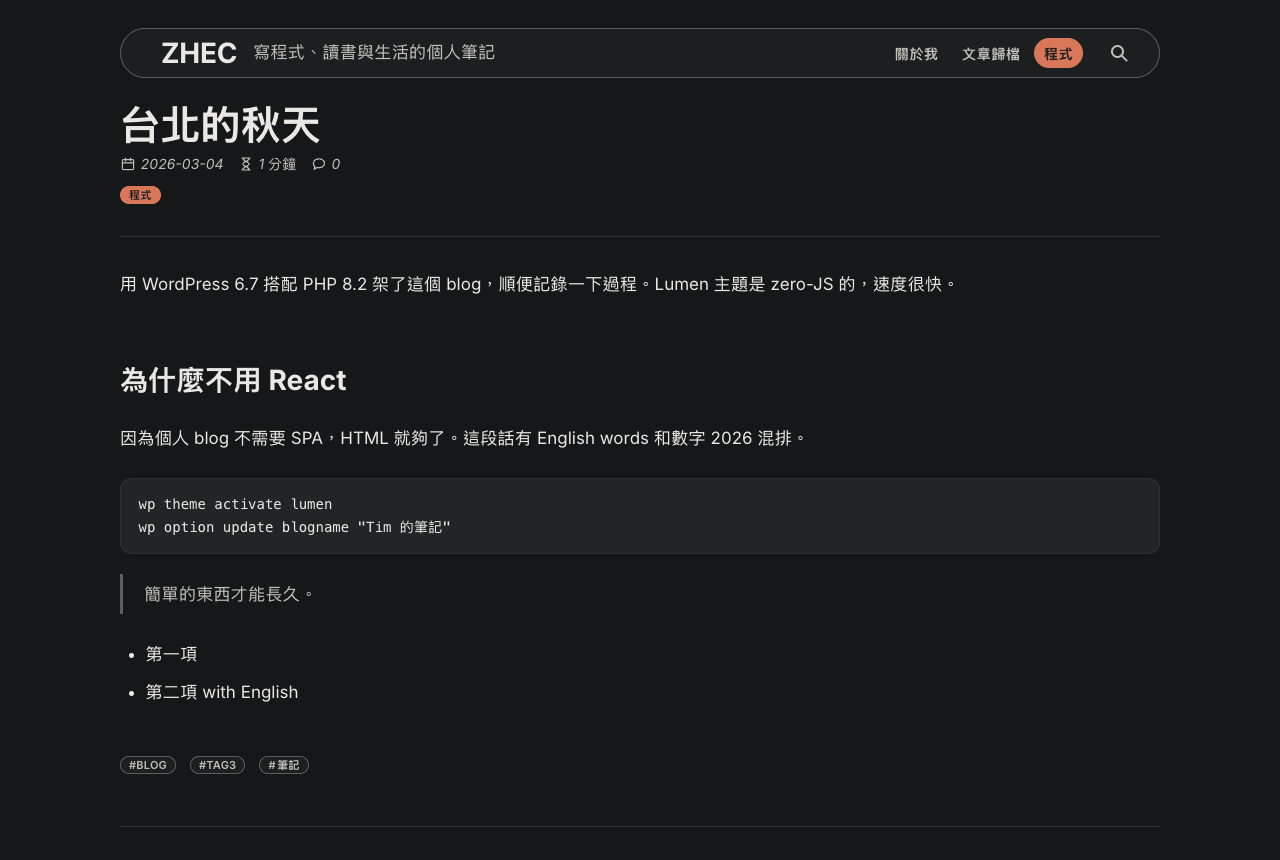
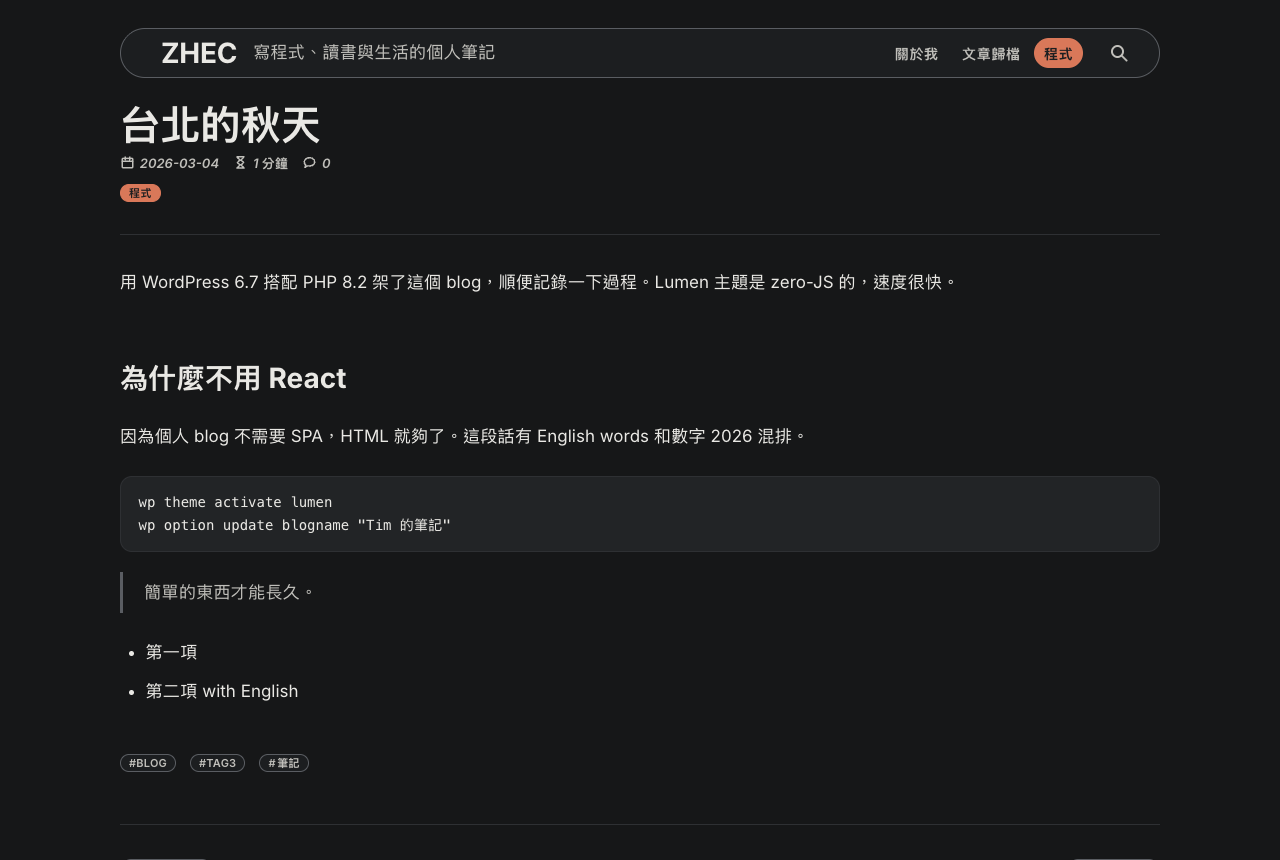
1.3.11：麵包屑放大並改紅框；分頁目前頁紅底；READ MORE 深灰底正體；日期列 13px 半粗

diff --git a/lumen/assets/css/main.css b/lumen/assets/css/main.css
@@ -68,7 +68,7 @@
 
 	/* One type scale. */
 	--text-2xs: 0.6875rem;                     /* 11px: pills, breadcrumbs, card "Read more" */
-	--text-xs: 0.8125rem;                      /* 13px */
+	--text-xs: 0.8125rem;                      /* 13px: breadcrumbs, post count, post meta */
 	--text-sm: 0.875rem;                       /* 14px: meta, pills, buttons, labels */
 	--text-base: 1.0625rem;                    /* 17px: body, excerpts, menu */
 	--text-lg: 1.375rem;                       /* 22px: section headings */
@@ -723,7 +723,8 @@ a.lumen-pill--accent:hover {
 	flex-wrap: wrap;
 	align-items: center;
 	gap: var(--space);
-	font-size: var(--text-sm);
+	font-size: var(--text-xs);
+	font-weight: 600;
 }
 
 .lumen-stat {
@@ -734,8 +735,9 @@ a.lumen-pill--accent:hover {
 }
 
 .lumen-stat .lumen-icon {
-	width: 1rem;
-	height: 1rem;
+	width: 0.9375rem;
+	height: 0.9375rem;
+	stroke-width: 2; /* matches the semibold text */
 }
 
 a.lumen-stat:hover {
@@ -846,14 +848,22 @@ a.lumen-stat:hover {
 
 .lumen-card > .lumen-button {
 	margin-top: -2px;
-	/* Small, in Inter's true italic (Chinese labels stay upright), on a
-	   soft grey; the same box as a category pill (18px tall, 8px sides). */
+	/* Small and upright; the same box as a category pill (18px tall, 8px
+	   sides). Filled like the
+	   "Pinned" pill (grey, white text); accent fill on hover. */
 	padding-inline: 8px;
-	background: var(--bg-soft);
+	color: var(--card);
+	background: var(--fg);
+	border-color: var(--fg);
+	transition: background-color var(--speed), border-color var(--speed);
 	font-size: var(--text-2xs);
 	line-height: 16px;
-	font-style: italic;
-	font-synthesis-style: none;
+}
+
+.lumen-card > .lumen-button:hover {
+	color: var(--card);
+	background: var(--accent);
+	border-color: var(--accent);
 }
 
 .lumen-card-title,
@@ -905,10 +915,12 @@ a.lumen-stat:hover {
 	gap: var(--space);
 }
 
-/* The count beside the breadcrumbs: as tall as their outline (22px). */
+/* The count beside the breadcrumbs: same type size, as tall as their
+   outline (24px). */
 .lumen-page-heading > .lumen-pill {
-	padding-inline: 10px;
-	line-height: 20px;
+	padding-inline: 12px;
+	font-size: var(--text-xs);
+	line-height: 22px;
 }
 
 /* Breadcrumbs: an outlined capsule matching the count pill beside it —
@@ -918,16 +930,17 @@ a.lumen-stat:hover {
 	flex-wrap: wrap;
 	align-items: center;
 	margin: 0;
-	/* Each crumb is the size of a category pill (18px tall, 8px sides), so
-	   the red "you are here" capsule matches the pills on the cards. A 1px
-	   inset lets it clear the outline: 22px in all, like the count beside. */
-	padding: 1px;
+	/* A step above the card pills (13px vs 11px): the breadcrumb names the
+	   page, so it outranks the labels on the cards below. An accent outline;
+	   the crumbs fill it edge to edge (22px), so the red capsule merges with
+	   it: 24px in all, like the count beside. */
+	padding: 0;
 	list-style: none;
-	font-size: var(--text-2xs);
-	line-height: 18px;
+	font-size: var(--text-xs);
+	line-height: 22px;
 	color: var(--muted);
 	background: var(--card);
-	border: 1px solid var(--line);
+	border: 1px solid var(--accent);
 	border-radius: var(--round);
 }
 
@@ -948,8 +961,8 @@ a.lumen-stat:hover {
 .lumen-breadcrumbs li > span {
 	display: inline-flex;
 	align-items: center;
-	gap: 0.25rem;
-	padding-inline: 8px;
+	gap: 0.3rem;
+	padding-inline: 10px;
 	border-radius: var(--round);
 }
 
@@ -1017,8 +1030,8 @@ a.lumen-stat:hover {
 }
 
 .lumen-breadcrumbs .lumen-icon {
-	width: 0.75rem;
-	height: 0.75rem;
+	width: 0.875rem;
+	height: 0.875rem;
 }
 
 .lumen-breadcrumbs [aria-current="page"] {
@@ -1090,14 +1103,21 @@ a.lumen-stat:hover {
 	border-radius: var(--round);
 }
 
+/* Hover: accent text and outline. The current page is "you are here":
+   an accent disc with white text, like the menu and breadcrumb capsules. */
 .lumen-pagination a.page-numbers:hover {
 	color: var(--accent);
+	border-color: var(--accent);
+}
+
+.lumen-pagination .page-numbers {
+	transition: color var(--speed), border-color var(--speed);
 }
 
 .lumen-pagination .page-numbers.current {
 	color: var(--card);
-	background: var(--fg);
-	border-color: var(--fg);
+	background: var(--accent);
+	border-color: var(--accent);
 }
 
 .lumen-pagination .page-numbers.dots {
@@ -1339,10 +1359,15 @@ pre {
 	border-radius: var(--round);
 }
 
+.lumen-page-links a.post-page-numbers:hover {
+	color: var(--accent);
+	border-color: var(--accent);
+}
+
 .lumen-page-links .post-page-numbers.current {
 	color: var(--card);
-	background: var(--fg);
-	border-color: var(--fg);
+	background: var(--accent);
+	border-color: var(--accent);
 }
 
 /* Tags */

diff --git a/lumen/style.css b/lumen/style.css
@@ -4,7 +4,7 @@ Theme URI: https://github.com/wwintj/lumen
 Author: Lumen Team
 Author URI: https://github.com/wwintj
 Description: A personal blog theme for Chinese and English writing: outlined cards in a two-column masonry, a one-line capsule header, one accent colour, automatic dark mode, reading time, and a year-by-year archive page. Zero JavaScript; English text uses a bundled 29 KB subset of Inter (SIL OFL 1.1).
-Version: 1.3.10
+Version: 1.3.11
 Requires at least: 6.3
 Tested up to: 7.1
 Requires PHP: 8.2

diff --git a/lumen/functions.php b/lumen/functions.php
@@ -11,7 +11,7 @@ if ( ! defined( 'ABSPATH' ) ) {
 	exit;
 }
 
-define( 'LUMEN_VERSION', '1.3.10' );
+define( 'LUMEN_VERSION', '1.3.11' );
 define( 'LUMEN_DIR', get_template_directory() );
 define( 'LUMEN_URI', get_template_directory_uri() );
 

diff --git a/CHANGELOG.md b/CHANGELOG.md
@@ -2,6 +2,14 @@
 
 正式發布版本、ZIP 與校驗碼以 [GitHub Releases](https://github.com/wwintj/lumen/releases) 為準。
 
+## 1.3.11
+
+- **麵包屑**：字級 11px → 13px（`--text-xs`），每項 22px 高、左右 10px；外框由灰改為 `--accent`，取消 1px 內縮，紅色目前項目直接貼齊外框，與外框連成一體。總高 24px。
+- **文章數膠囊**：同步改為 13px、24px 高，與麵包屑並排對齊。
+- **分頁**：目前頁碼由深灰改為 `--accent` 實心、白字；其他頁碼懸停時數字與外框變紅。文章內分頁（`<!--nextpage-->`）同樣處理。
+- **READ MORE**：淺灰底 → 深灰（`--fg`）底、白字，與「置頂」膠囊同色；取消斜體；懸停改為紅底白字。
+- **日期列**：14px 斜體 → 13px 半粗斜體；圖示 16px → 15px，線寬 1.5 → 2。
+
 ## 1.3.10
 
 - **READ MORE**：行高 13px → 16px、左右內距 4px → 8px，與分類膠囊同為 18px 高；字仍為 11px 斜體、淺灰底。
